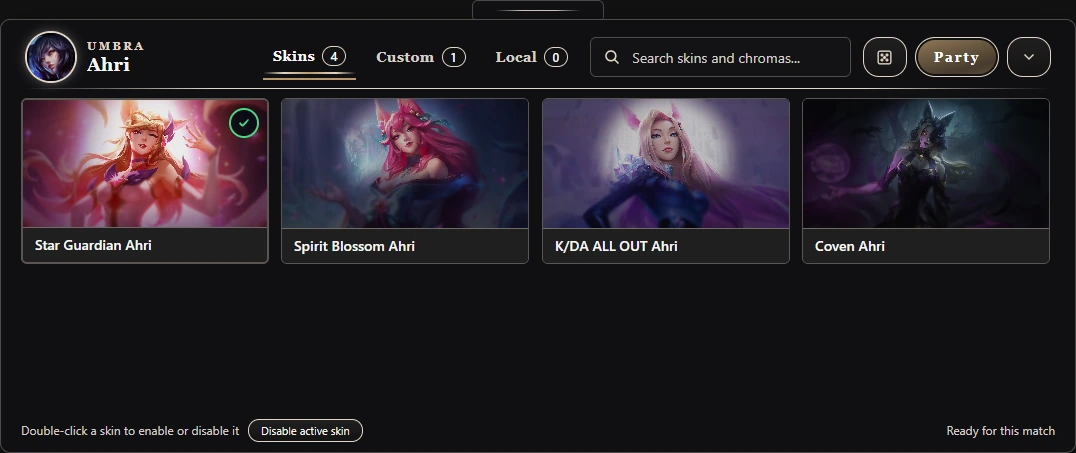
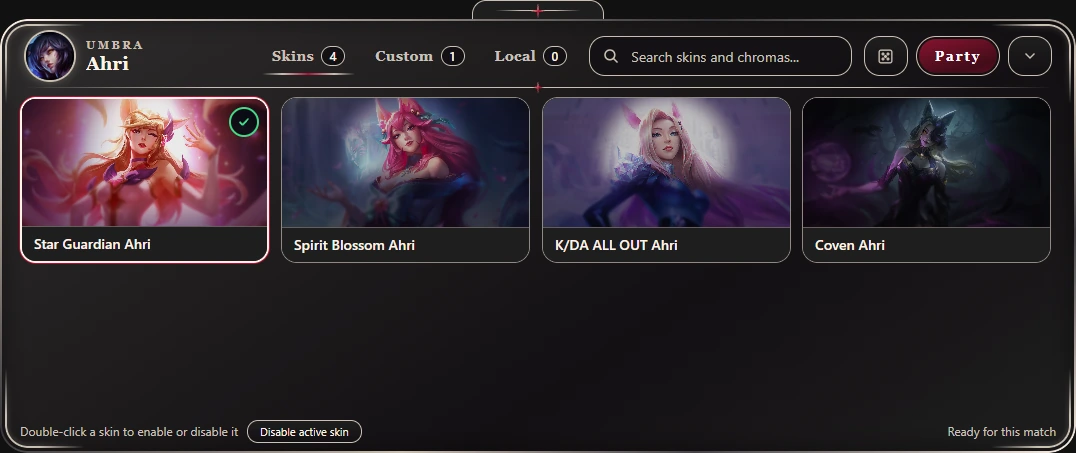
Use Umbra's silver and ruby theme throughout the overview

diff --git a/README.md b/README.md
@@ -6,12 +6,12 @@
 Riot skins, chromas and custom looks for League of Legends, ready from champion select.</p>
 
 <p align="center">
-  <a href="https://github.com/frilo369/Umbra/releases/latest"><img alt="Download Umbra for Windows" src="https://img.shields.io/badge/Download_Umbra-Windows-d9b168?style=for-the-badge&logo=windows&logoColor=white"></a>
-  <a href="https://github.com/frilo369/Umbra/releases"><img alt="Latest release" src="https://img.shields.io/github/v/release/frilo369/Umbra?style=for-the-badge&color=3d87b8&label=Latest"></a>
-  <a href="https://github.com/frilo369/Umbra/issues"><img alt="Help and feedback" src="https://img.shields.io/badge/Help_%26_feedback-Open_an_issue-26364d?style=for-the-badge"></a>
+  <a href="https://github.com/frilo369/Umbra/releases/latest"><img alt="Download Umbra for Windows" src="https://img.shields.io/badge/Download_Umbra-Windows-ae1236?style=for-the-badge&logo=windows&logoColor=white"></a>
+  <a href="https://github.com/frilo369/Umbra/releases"><img alt="Latest release" src="https://img.shields.io/github/v/release/frilo369/Umbra?style=for-the-badge&color=cabfb1&label=Latest"></a>
+  <a href="https://github.com/frilo369/Umbra/issues"><img alt="Help and feedback" src="https://img.shields.io/badge/Help_%26_feedback-Open_an_issue-392b30?style=for-the-badge"></a>
 </p>
 
-<p align="center"><img src="docs/images/lobby.webp" alt="Umbra 5.2 in the Eclipse design, with the Eclipse Ruins background, profile, Create Party and Find Party" width="100%"></p>
+<p align="center"><img src="docs/images/lobby.webp" alt="Umbra 5.2 lobby with ornate silver frames, ruby accents, profile, Create Party and Find Party" width="100%"></p>
 
 **Current release: [Umbra 5.2](https://github.com/frilo369/Umbra/releases/tag/v5.2)** · 23 November 2026. This release improves the first connection to LTK Manager and makes repeated Riot skin audio builds consistent.
 
@@ -23,33 +23,27 @@ Riot skins, chromas and custom looks for League of Legends, ready from champion 
 | **Go custom** | Use the custom catalogue, browse Divine Skins, add your own `.fantome` / `.modpkg` packages, and keep optional custom mods enabled across matches. |
 | **Bring your friends** | Create a party or browse **Find Party**, which refreshes whenever you open it and while it stays open. Coordinate supported picks, see preparation status, and use Stealth to hide your selections. If the host leaves, a remaining member takes over. |
 | **Keep a guide nearby** | Press **F1** by default for the bundled ARAM Mayhem guide or themed MetaSRC builds in Arena, ARAM and Ranked. Builds already viewed on a MetaSRC page reopen quickly. |
-| **Make it yours** | Choose the **Default** or **Eclipse** interface, built-in backgrounds or your own images, and a custom asset colour with a live preview and eyedropper. Each design remembers its background; each background remembers its colour. |
+| **Make it yours** | Personalize Umbra with built-in backgrounds or your own images and a custom asset colour with a live preview and eyedropper. Each background remembers its colour. |
 | **Stay ready** | App updates wait for League and skin work to be idle. Separate database checks refresh custom content; Send logs gives you a four-character support code. |
 
 <p align="center"><img src="docs/images/skins.webp" alt="Ahri skin selection in Umbra, showing Star Guardian, Spirit Blossom, K/DA ALL OUT and Coven, with search, Random and Party controls" width="100%"></p>
 
-<p align="center"><img src="docs/images/party.webp" alt="Umbra 5.2 Eclipse party with four sample members, full-card skin artwork, host and preparation indicators" width="100%"></p>
+<p align="center"><img src="docs/images/party.webp" alt="Umbra 5.2 party with silver frames, ruby accents, four sample members, selected skins, host and preparation indicators" width="100%"></p>
 
 <table>
   <tr>
-    <td width="50%" align="center"><strong>The Default design</strong></td>
-    <td width="50%" align="center"><strong>Two complete interface designs</strong></td>
-  </tr>
-  <tr>
-    <td><a href="docs/images/default-lobby.webp"><img src="docs/images/default-lobby.webp" alt="Umbra 5.2 Default lobby with ornate silver frames, ruby accents and the Umbra Eclipse background" width="100%"></a></td>
-    <td><a href="docs/images/themes.webp"><img src="docs/images/themes.webp" alt="Themes panel with Default and Eclipse interface designs" width="100%"></a></td>
-  </tr>
-  <tr>
-    <td align="center"><strong>Your backdrop</strong></td>
-    <td align="center"><strong>Your preferences and support</strong></td>
+    <td width="50%" align="center"><strong>Your backdrop</strong></td>
+    <td width="50%" align="center"><strong>Your signature colour</strong></td>
   </tr>
   <tr>
     <td><a href="docs/images/backgrounds.webp"><img src="docs/images/backgrounds.webp" alt="Background gallery with built-in artwork, image import and separate asset colour controls" width="100%"></a></td>
-    <td><a href="docs/images/settings.webp"><img src="docs/images/settings.webp" alt="Umbra 5.2 settings with startup preferences, guide shortcut, updates, Open database folder and Send logs" width="100%"></a></td>
+    <td><a href="docs/images/themes.webp"><img src="docs/images/themes.webp" alt="Umbra's asset colour picker with live ruby preview, colour spectrum and eyedropper" width="100%"></a></td>
   </tr>
 </table>
 
-<p align="center"><sub>Umbra 5.2 interface previews with sample selections and party members. Click the smaller images to see the details.</sub></p>
+<p align="center"><img src="docs/images/settings.webp" alt="Umbra 5.2 settings with silver frames, startup preferences, guide shortcut, updates, Open database folder and Send logs" width="100%"></p>
+
+<p align="center"><sub>Umbra 5.2 interface previews in the Umbra Default theme, with sample selections and party members. Click the smaller images to see the details.</sub></p>
 
 ## Start in three steps
 
